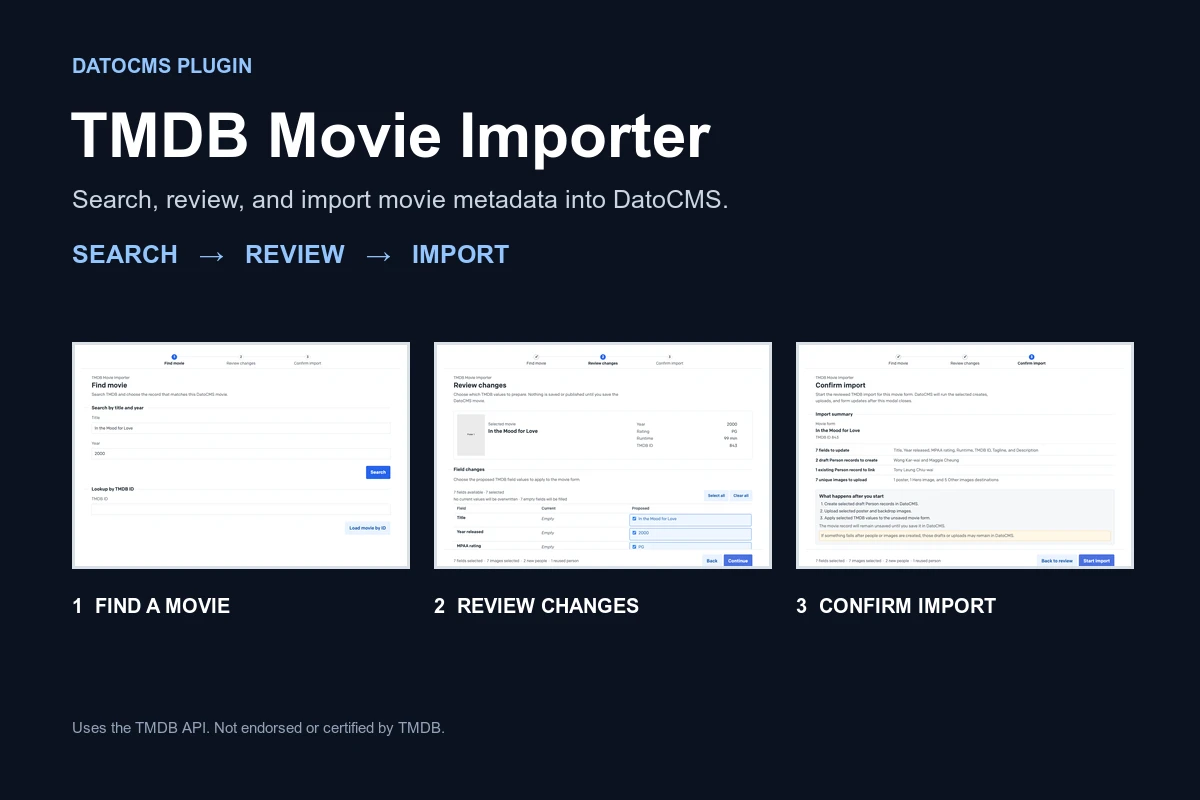
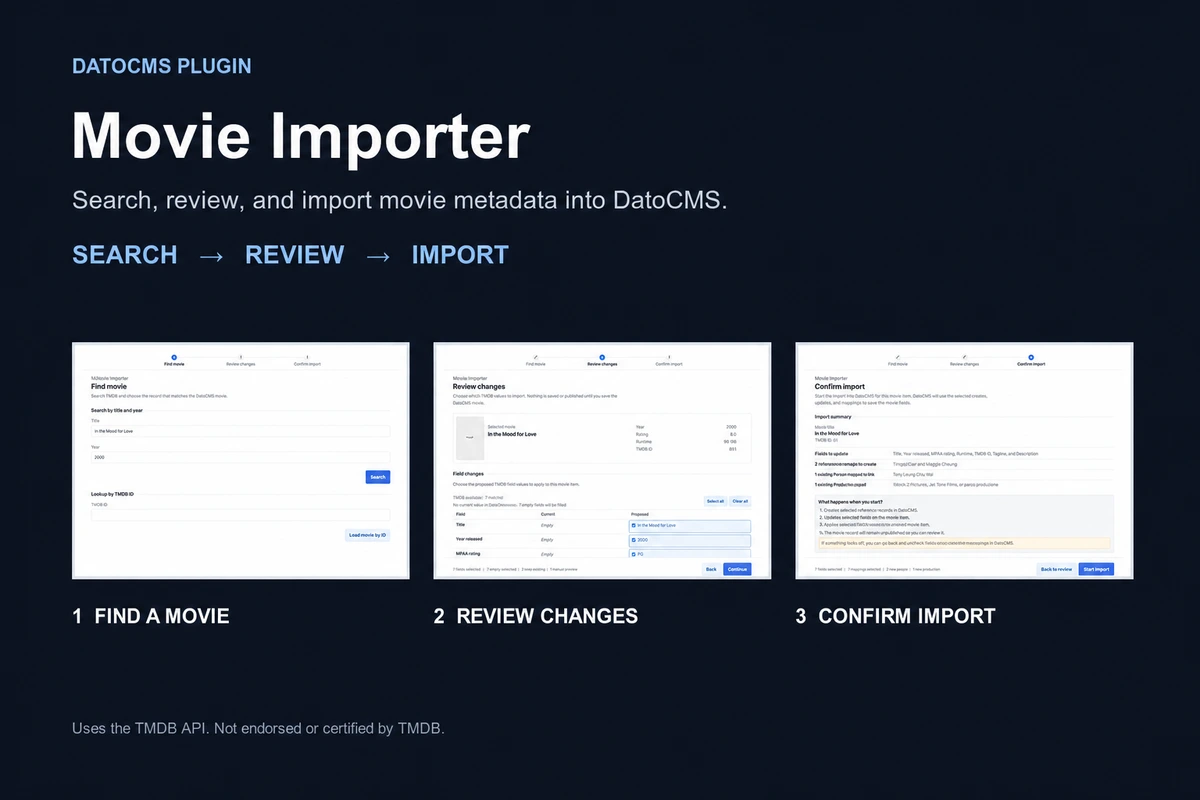
✨ feat(brand): rename plugin to Movie Importer

diff --git a/src/ui/ImportModal.test.tsx b/src/ui/ImportModal.test.tsx
@@ -353,7 +353,7 @@ describe('ImportModal', () => {
 
       expect(screen.queryByRole('alert')).not.toBeInTheDocument();
       expect(consoleError).not.toHaveBeenCalledWith(
-        'TMDB Movie Importer person matching failed',
+        'Movie Importer person matching failed',
         expect.anything(),
       );
       expect(unhandledRejection).not.toHaveBeenCalled();
@@ -469,7 +469,7 @@ describe('ImportModal', () => {
     await userEvent.click(screen.getByRole('button', { name: /Example Movie/i }));
 
     expect(screen.getByRole('heading', { name: 'Review changes' })).toBeInTheDocument();
-    expect(screen.getByText('TMDB Movie Importer')).toBeInTheDocument();
+    expect(screen.getByText('Movie Importer')).toBeInTheDocument();
     expect(screen.getByRole('heading', { name: 'Review changes' }).closest('.movie-import-modal__scroll-body')).toBeInTheDocument();
     expect(screen.getByText('Choose which TMDB values to prepare. Nothing is saved or published until you save the DatoCMS movie.').closest('.movie-import-modal__scroll-body')).toBeInTheDocument();
     expect(screen.getByText('Field changes').closest('.movie-import-modal__scroll-body')).toBeInTheDocument();
@@ -1403,7 +1403,7 @@ describe('ImportModal data flow', () => {
       expect(screen.getAllByRole('img', { name: 'Backdrop option 2' })).toHaveLength(1);
       expect(screen.getAllByRole('img', { name: 'Backdrop option 2' })[0]).toHaveAttribute('src', movieWithBackdrops.images[2]!.originalUrl);
       await waitFor(() => expect(consoleError).toHaveBeenCalledWith(
-        'TMDB Movie Importer artwork preparation failed',
+        'Movie Importer artwork preparation failed',
         { message: '[object Object]' },
       ));
       expect(JSON.stringify(consoleError.mock.calls)).not.toContain('secret-image.jpg');
@@ -1434,7 +1434,7 @@ describe('ImportModal data flow', () => {
       await userEvent.click(screen.getByRole('button', { name: 'Load movie by ID' }));
 
       await waitFor(() => expect(consoleError).toHaveBeenCalledWith(
-        'TMDB Movie Importer person matching failed',
+        'Movie Importer person matching failed',
         { message: '[object Object]' },
       ));
       expect(JSON.stringify(consoleError.mock.calls)).not.toContain('secret-current-user-token');

diff --git a/src/ui/ImportModal.tsx b/src/ui/ImportModal.tsx
@@ -81,7 +81,7 @@ export function ImportModal(props: ImportModalProps) {
       setSearchActivity('checking_artwork');
       const preparedImages = await prepareImages(loaded.images).catch((reason) => {
         console.error(
-          'TMDB Movie Importer artwork preparation failed',
+          'Movie Importer artwork preparation failed',
           tokenSafeErrorDetails(reason),
         );
         return loaded.images;
@@ -92,7 +92,7 @@ export function ImportModal(props: ImportModalProps) {
       }
       const peopleResult = await peoplePromise;
       if (peopleResult.status === 'rejected') {
-        console.error('TMDB Movie Importer person matching failed', tokenSafeErrorDetails(peopleResult.reason));
+        console.error('Movie Importer person matching failed', tokenSafeErrorDetails(peopleResult.reason));
         setError('The TMDB movie loaded, but Person matching failed. Check that this editor can list Person records, then try again.');
         setStep('search');
         return;
@@ -110,7 +110,7 @@ export function ImportModal(props: ImportModalProps) {
       ));
       setStep('review');
     } catch (error) {
-      console.error('TMDB Movie Importer TMDB movie load failed', tokenSafeErrorDetails(error));
+      console.error('Movie Importer TMDB movie load failed', tokenSafeErrorDetails(error));
       setError(messageForTmdbMovieLoadError(error));
       setStep('search');
     } finally {
@@ -141,7 +141,7 @@ export function ImportModal(props: ImportModalProps) {
       setResults(await props.searchMovies({ title: trimmedTitle, year }));
       setHasSearched(true);
     } catch (error) {
-      console.error('TMDB Movie Importer TMDB search failed', tokenSafeErrorDetails(error));
+      console.error('Movie Importer TMDB search failed', tokenSafeErrorDetails(error));
       setError(messageForTmdbSearchError(error));
     } finally {
       setSearchActivity(null);

diff --git a/src/main.tsx b/src/main.tsx
@@ -28,14 +28,14 @@ class PluginErrorBoundary extends React.Component<{ children: React.ReactNode },
   }
 
   componentDidCatch(error: Error, info: React.ErrorInfo) {
-    console.error('TMDB Movie Importer render failed', error, info);
+    console.error('Movie Importer render failed', error, info);
   }
 
   render() {
     if (this.state.error) {
       return (
         <div role="alert" style={{ color: 'var(--color--danger-soft--ink, var(--color--ink))', fontFamily: 'sans-serif', padding: 16 }}>
-          <h2>TMDB Movie Importer failed to render</h2>
+          <h2>Movie Importer failed to render</h2>
           <p>{this.state.error.message}</p>
           <p>Open the browser console for the full stack trace.</p>
         </div>
@@ -143,12 +143,12 @@ connect({
               environment: ctx.environment,
             },
             preparationLocale,
-            (timing) => console.info('TMDB Movie Importer upload performance', timing),
+            (timing) => console.info('Movie Importer upload performance', timing),
           ),
           {
             personModelId: latestSchema?.models[latestParams.personModelApiKey]?.id,
             onProgress,
-            onPhaseTiming: (timing) => console.info('TMDB Movie Importer performance', timing),
+            onPhaseTiming: (timing) => console.info('Movie Importer performance', timing),
           },
         );
       },

diff --git a/src/releaseManifest.test.ts b/src/releaseManifest.test.ts
@@ -58,7 +58,7 @@ describe('release package manifest', () => {
         url: 'https://github.com/metrocinema/datocms-plugin-tmdb-movie-importer/issues',
       },
       datoCmsPlugin: {
-        title: 'TMDB Movie Importer',
+        title: 'Movie Importer',
         entryPoint: 'dist/index.html',
         permissions: ['currentUserAccessToken'],
         coverImage: 'docs/marketplace/cover.webp',
@@ -121,7 +121,7 @@ describe('release package manifest', () => {
     const license = await readLicense();
 
     expect(license).toContain('Permission is hereby granted, free of charge');
-    expect(license).toContain('The MIT license above applies only to original TMDB Movie Importer plugin code and documentation created by Metro Cinema.');
+    expect(license).toContain('The MIT license above applies only to original Movie Importer plugin code and documentation created by Metro Cinema.');
     expect(license).toContain('The bundled TMDB logo, TMDB trademarks, TMDB data, TMDB images, and other TMDB content are excluded from this MIT license.');
     expect(license).toContain('They remain governed by their respective owners and the TMDB API Terms of Use.');
   });

diff --git a/src/ui/ConfirmStep.tsx b/src/ui/ConfirmStep.tsx
@@ -53,7 +53,7 @@ export function ConfirmStep({ plan, movie, onConfirm, onBack }: ConfirmStepProps
       </div>
       <div className="movie-import-modal__scroll-body">
         <header className="movie-import-modal__header">
-          <p className="movie-import-modal__eyebrow">TMDB Movie Importer</p>
+          <p className="movie-import-modal__eyebrow">Movie Importer</p>
           <h2 ref={headingRef} tabIndex={-1} className="movie-import-modal__title movie-import-modal__title--focus-target">Confirm import</h2>
           <p className="movie-import-modal__intro">Start the reviewed TMDB import for this movie form. DatoCMS will run the selected creates, uploads, and form updates after this modal closes.</p>
         </header>

diff --git a/src/ui/ImportProgressStep.tsx b/src/ui/ImportProgressStep.tsx
@@ -73,7 +73,7 @@ export function ImportProgressStep({ plan, progressEvents, preparationFailure, p
       </div>
       <div className="movie-import-modal__scroll-body">
         <header className="movie-import-modal__header">
-          <p className="movie-import-modal__eyebrow">TMDB Movie Importer</p>
+          <p className="movie-import-modal__eyebrow">Movie Importer</p>
           <h2 ref={headingRef} tabIndex={-1} className="movie-import-modal__title movie-import-modal__title--focus-target">Importing movie</h2>
           <p className="movie-import-modal__intro">Preparing the selected people, images, and movie values before they are applied to this form.</p>
         </header>

diff --git a/src/ui/ReviewStep.tsx b/src/ui/ReviewStep.tsx
@@ -94,7 +94,7 @@ export function ReviewStep({ movie, comparisons, mappedFields, onToggle, onSelec
       </div>
       <div className="movie-import-modal__scroll-body">
         <header className="movie-import-modal__header">
-          <p className="movie-import-modal__eyebrow">TMDB Movie Importer</p>
+          <p className="movie-import-modal__eyebrow">Movie Importer</p>
           <h2 className="movie-import-modal__title">Review changes</h2>
           <p className="movie-import-modal__intro">Choose which TMDB values to prepare. Nothing is saved or published until you save the DatoCMS movie.</p>
         </header>

diff --git a/src/ui/SearchStep.tsx b/src/ui/SearchStep.tsx
@@ -39,7 +39,7 @@ export function SearchStep({ title, year, results, hasSearched, onTitleChange, o
 
       <div className="movie-import-modal__scroll-body">
         <header className="movie-import-modal__header">
-          <p className="movie-import-modal__eyebrow">TMDB Movie Importer</p>
+          <p className="movie-import-modal__eyebrow">Movie Importer</p>
           <h2 className="movie-import-modal__title">Find movie</h2>
           <p className="movie-import-modal__intro">Search TMDB and choose the record that matches this DatoCMS movie.</p>
         </header>

diff --git a/src/plugin/fieldExtensions.test.ts b/src/plugin/fieldExtensions.test.ts
@@ -5,7 +5,7 @@ describe('manualFieldExtensions', () => {
     expect(manualFieldExtensions()).toEqual([
       {
         id: 'tmdbMovieImport',
-        name: 'TMDB Movie Importer',
+        name: 'Movie Importer',
         type: 'addon',
         fieldTypes: ['string', 'integer', 'float'],
         initialHeight: 80,

diff --git a/src/plugin/fieldExtensions.ts b/src/plugin/fieldExtensions.ts
@@ -6,7 +6,7 @@ export function manualFieldExtensions(): ManualFieldExtension[] {
   return [
     {
       id: TMDB_MOVIE_IMPORT_FIELD_EXTENSION_ID,
-      name: 'TMDB Movie Importer',
+      name: 'Movie Importer',
       type: 'addon',
       fieldTypes: ['string', 'integer', 'float'],
       initialHeight: 80,

diff --git a/index.html b/index.html
@@ -3,7 +3,7 @@
   <head>
     <meta charset="UTF-8" />
     <meta name="viewport" content="width=device-width, initial-scale=1.0" />
-    <title>TMDB Movie Importer</title>
+    <title>Movie Importer</title>
   </head>
   <body>
     <div id="root"></div>

diff --git a/README.md b/README.md
@@ -1,6 +1,6 @@
-# TMDB Movie Importer
+# Movie Importer
 
-TMDB Movie Importer is a Metro Cinema plugin for DatoCMS. It lets editors find a movie, review selected TMDB metadata, people, an optional trailer, and images, then apply the approved values to the current unsaved movie form.
+Movie Importer is a Metro Cinema plugin for DatoCMS. It lets editors find a movie, review selected TMDB metadata, people, an optional trailer, and images, then apply the approved values to the current unsaved movie form.
 
 ## Current implementation
 
@@ -10,7 +10,7 @@ Artwork selection is opt-in. No poster or backdrop candidate starts selected. Wh
 
 Trailer import selects one deterministic official English YouTube trailer when TMDB provides one. The proposal starts selected only when the mapped DatoCMS Trailer field is empty. A different current trailer stays unselected until the editor opts in, and no fallback candidate appears when TMDB has no qualifying trailer. The plugin opens preview links on YouTube, and it never embeds or uploads video.
 
-Trailer behavior is implemented on this branch and covered by the automated release gate. Manual DatoCMS sandbox acceptance is still pending.
+Trailer behavior is implemented on the current branch, covered by the automated release gate, and verified through a deployed DatoCMS sandbox trailer-replacement import. The broader Marketplace acceptance matrix remains pending.
 
 The repository contains a manually triggered Cloudflare Pages deployment workflow, but source, build, push, deployment, DatoCMS installation, and sandbox acceptance are separate states. A checkout or passing test suite does not prove that a Pages deployment or DatoCMS installation is current.
 
